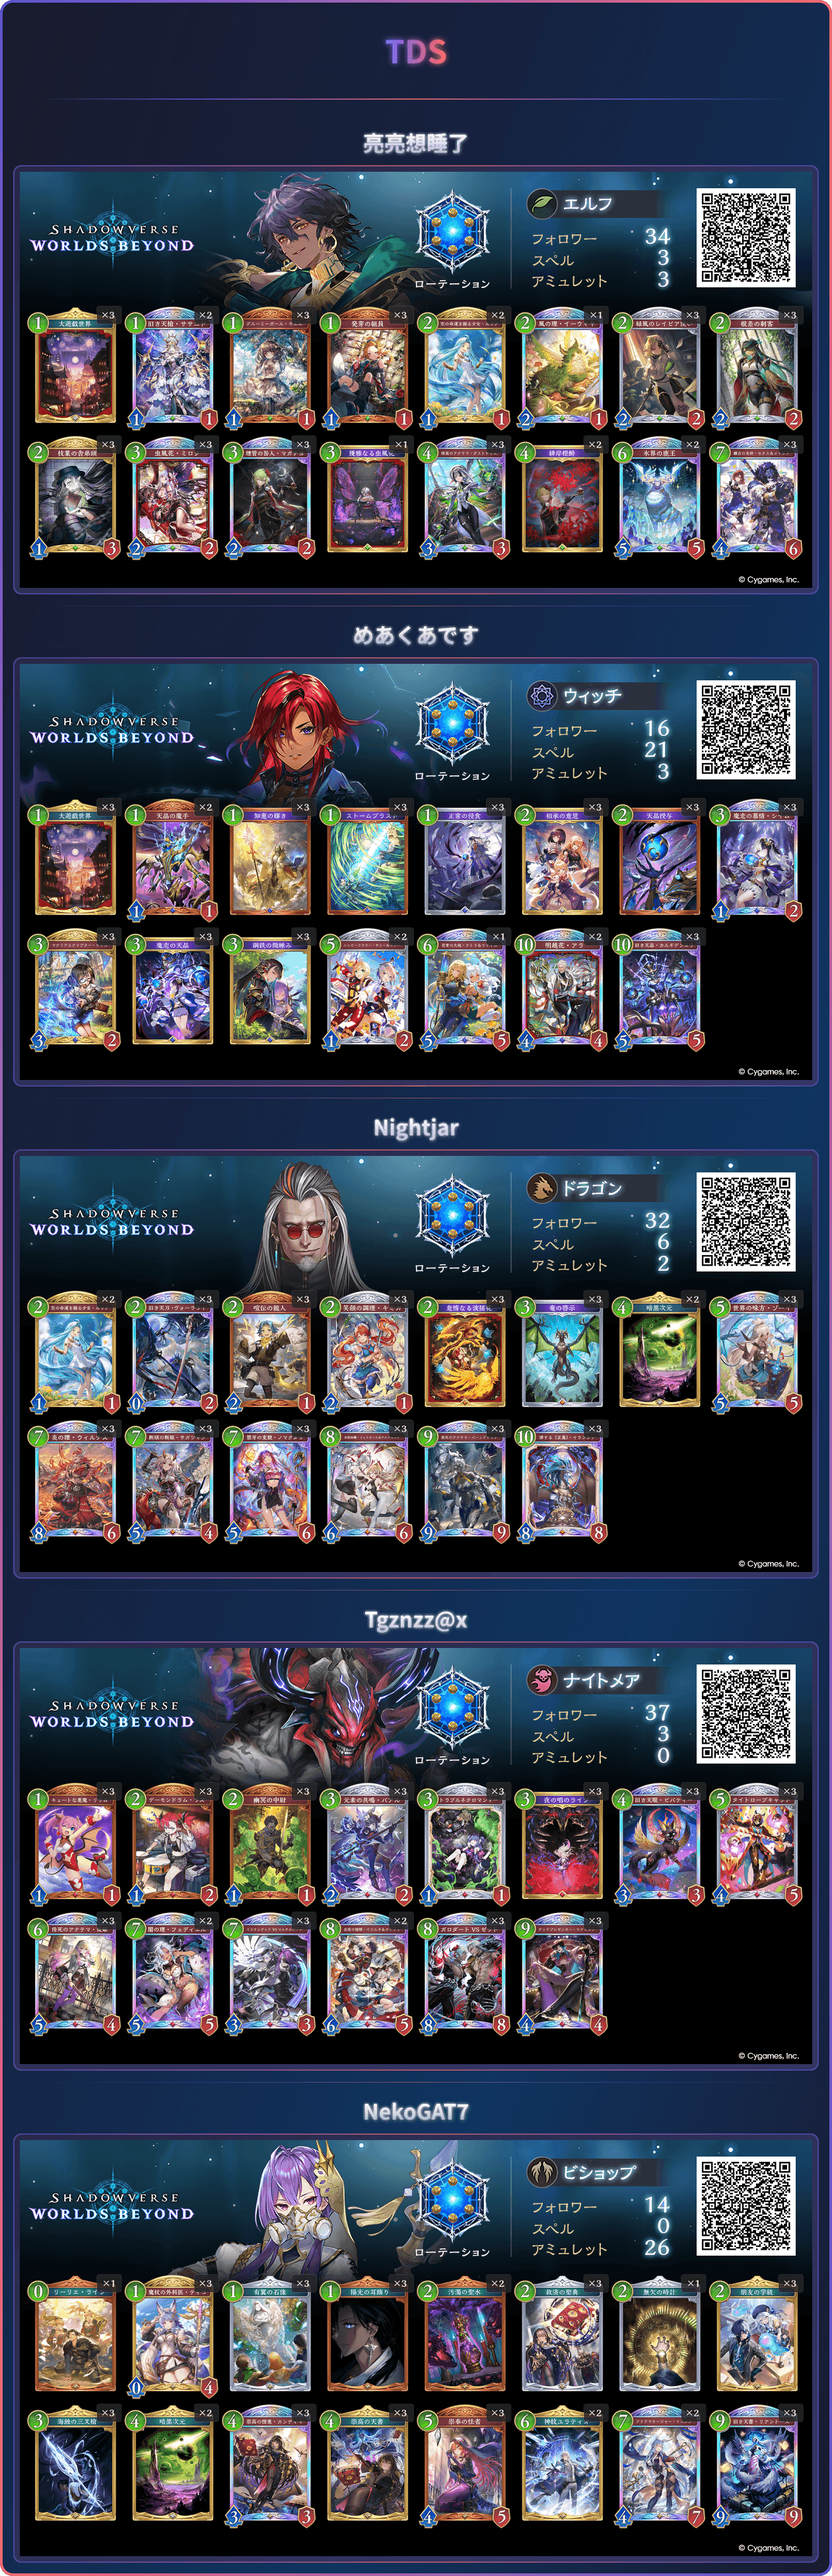
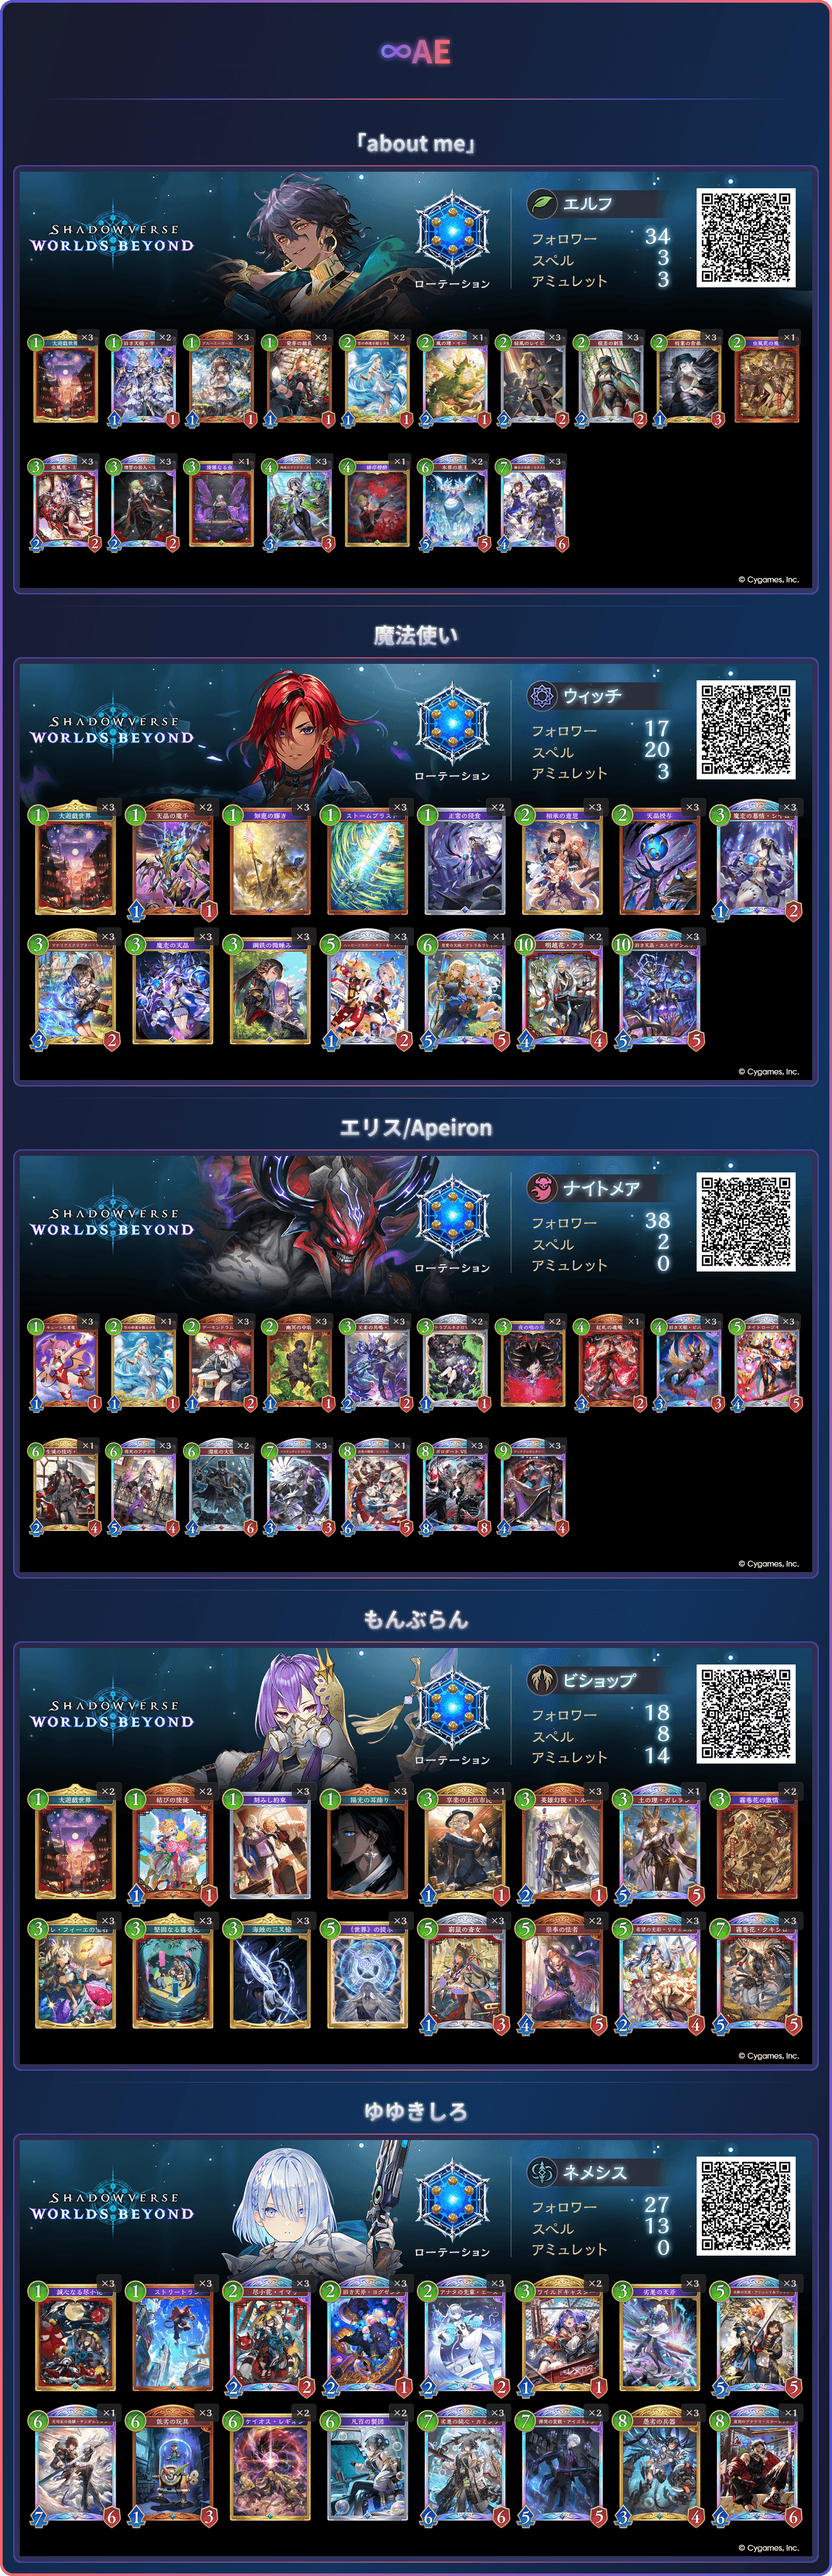
デッキ画像リンクの解決ロジックを更新し、シーズン文字列からチームトークンを取得する関数を追加。新しいデッキ画像ファイルを追加。

diff --git a/dashboard.js b/dashboard.js
@@ -374,9 +374,33 @@ function createDeckLinksSection(match) {
 }
 
 /**
+ * シーズン文字列からチームトークンを取得
+ * 第16回は∞チームと∞AEチームの2チームが出場しているため、
+ * season文字列に含まれる「∞」「∞AE」からファイル名用トークン(ap/ae)を判定する
+ * @param {String} season - シーズン文字列
+ * @returns {"ap"|"ae"|null} チームトークン
+ */
+function getSeasonTeamToken(season) {
+    if (!season) return null;
+
+    const normalized = String(season);
+
+    if (normalized.includes("∞AE")) {
+        return "ae";
+    }
+
+    if (normalized.includes("∞")) {
+        return "ap";
+    }
+
+    return null;
+}
+
+/**
  * 命名規則からデッキ画像リンクを解決
- * 規則: deck-images/s{season}-{first|second}-r{round}-{my|enemy}.png
+ * 規則: deck-images/s{season}-{first|second}-r{round}-{my|enemy}[-{team}].png
  * 例: deck-images/s14-second-r2-my.png
+ * 例(第16回、複数チーム): deck-images/s16-first-r1-my-ap.png
  * @param {Object} match - 試合データ
  * @returns {{my: String, enemy: String}} デッキ画像リンク
  */
@@ -389,11 +413,13 @@ function resolveDeckLinksByFileName(match) {
         return { my: "", enemy: "" };
     }
 
+    const teamToken = getSeasonTeamToken(match.season);
+    const teamSuffix = teamToken ? `-${teamToken}` : "";
     const base = `deck-images/s${seasonNumber}-${seasonHalf}-r${roundNumber}`;
 
     return {
-        my: `${base}-my.png`,
-        enemy: `${base}-enemy.png`
+        my: `${base}-my${teamSuffix}.png`,
+        enemy: `${base}-enemy${teamSuffix}.png`
     };
 }
 
